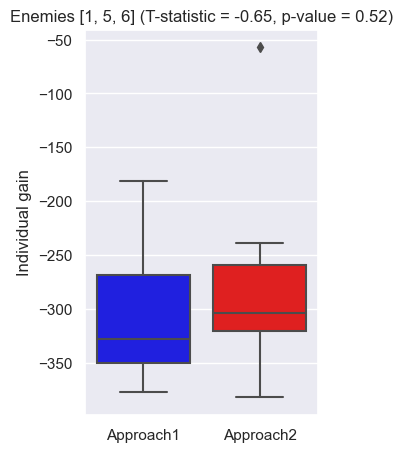
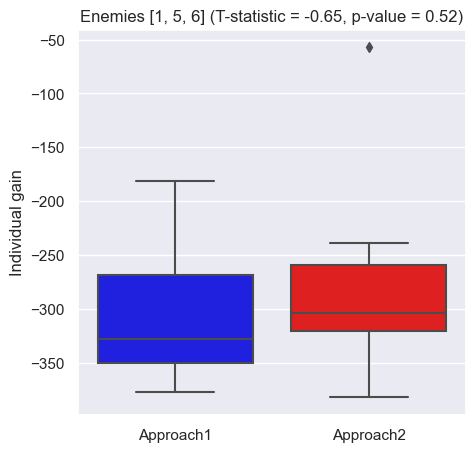
add boxplots

diff --git a/find_best_for_competition.py b/find_best_for_competition.py
@@ -29,7 +29,6 @@ def find_best(df, value1, value2):
         ]
 
 
-
 def play_game(env, best_individual):
     """
     Play a game against all enemies and return the tables of the results
@@ -42,24 +41,54 @@ def play_game(env, best_individual):
         "games_won" : pd.Series(dtype='int')
     })
 
+    stats = {}
+
     for i, enemy in enumerate(ENEMIES_TEST):
 
         player_life_list = np.zeros(N_GAMES)
         enemy_life_list = np.zeros(N_GAMES)
+        fitness_list = np.zeros(N_GAMES)
         games_won = 0
 
         # Update the enemy
         env.update_parameter('enemies', [enemy])
 
+        print(f"Enemy {enemy}:")
         for game in range(N_GAMES):
             fitness, player_life, enemy_life, time = env.play(best_individual)
 
             player_life_list[game] = player_life
             enemy_life_list[game] = enemy_life
+            fitness_list[game] = fitness
             if player_life > enemy_life:
                  games_won += 1
+        print(f"\tavg fitness: {fitness_list.mean()}")
+        print(f"\tavg individual gain: {np.array([p - e for (p, e) in zip(player_life_list,enemy_life_list )]).mean()}")
+        print(f"\tgames won: {games_won}/{N_GAMES}")
 
-        games_df.loc[i] = [enemy, round(player_life_list.mean(), 1), round(enemy_life_list.mean(), 1), int(games_won/N_GAMES)]
+        stats[enemy] = {"fitness" : fitness_list,
+                        "player_life" : player_life_list,
+                        "enemy_life": enemy_life_list
+                        }
+        games_df.loc[i] = [enemy, round(player_life_list.mean(), 1), round(enemy_life_list.mean(), 1), int(games_won/N_GAMES * 100)]
+
+    final_gain = np.zeros(N_GAMES)
+    final_fitness = np.zeros(N_GAMES)
+    for game in range(N_GAMES):
+        sum_player_life = 0
+        sum_enemy_life = 0
+        fitness_multi = []
+        for enemy in ENEMIES_TEST:
+            sum_player_life += stats[enemy]["player_life"][game]
+            sum_enemy_life += stats[enemy]["enemy_life"][game]
+            fitness_multi.append(stats[enemy]["fitness"][game])
+
+        fitness_multi = np.array(fitness_multi)
+        final_gain[game] = sum_player_life - sum_enemy_life
+        final_fitness[game] = fitness_multi.mean() - fitness_multi.std()
+
+    print(f"Avg gain measure: {final_gain.mean()}")
+    print(f"Avg fitness measure: {final_fitness.mean()}\n")
 
     # return the dataframe of the games against each enemy
     return games_df
@@ -98,6 +127,7 @@ for i, file in enumerate(games_files):
     controller_best = os.path.join(os.path.dirname(file), BEST_INDIVIDUAL_PATTERN+ str(best_run)+".txt")
     all_bests.loc[i] = [controller_best, best_mean_gain, best_mean_defeated_enemies]
 
+
 # find the best individual across all EAs
 id_best = find_best(all_bests, 'defeated_enemies', 'individual_gains')
 best_for_competition = all_bests.iloc[id_best]
@@ -120,4 +150,4 @@ env = Environment(
     )
 best_individual = np.loadtxt(best_for_competition['controller'])
 df = play_game(env, best_individual)
-print(df.to_latex(index=False))
+print(df.T.to_latex(header=False))

diff --git a/box_plots.py b/box_plots.py
@@ -9,7 +9,7 @@ from ast import literal_eval
 import scipy.stats as stats
 
 # group of enemies trained on
-ENEMIES_TRAINING = [1, 5, 6]
+ENEMIES_TRAINING = [2, 5, 8]
 
 EA_DIRS = ["ea1", "ea2"]
 RUNS_DIR = "runs"
@@ -61,7 +61,7 @@ def main():
     t_statistic = stats.ttest_ind(df['Approach1'], df['Approach2'])
 
     # show box plot
-    sns.set(rc={'figure.figsize': (3,5)})
+    sns.set(rc={'figure.figsize': (5,5)})
     palette = {"Approach1": "blue", "Approach2": "red"}
     ax = sns.boxplot(data = df, palette=palette)
     ax.set(ylabel='Individual gain'
